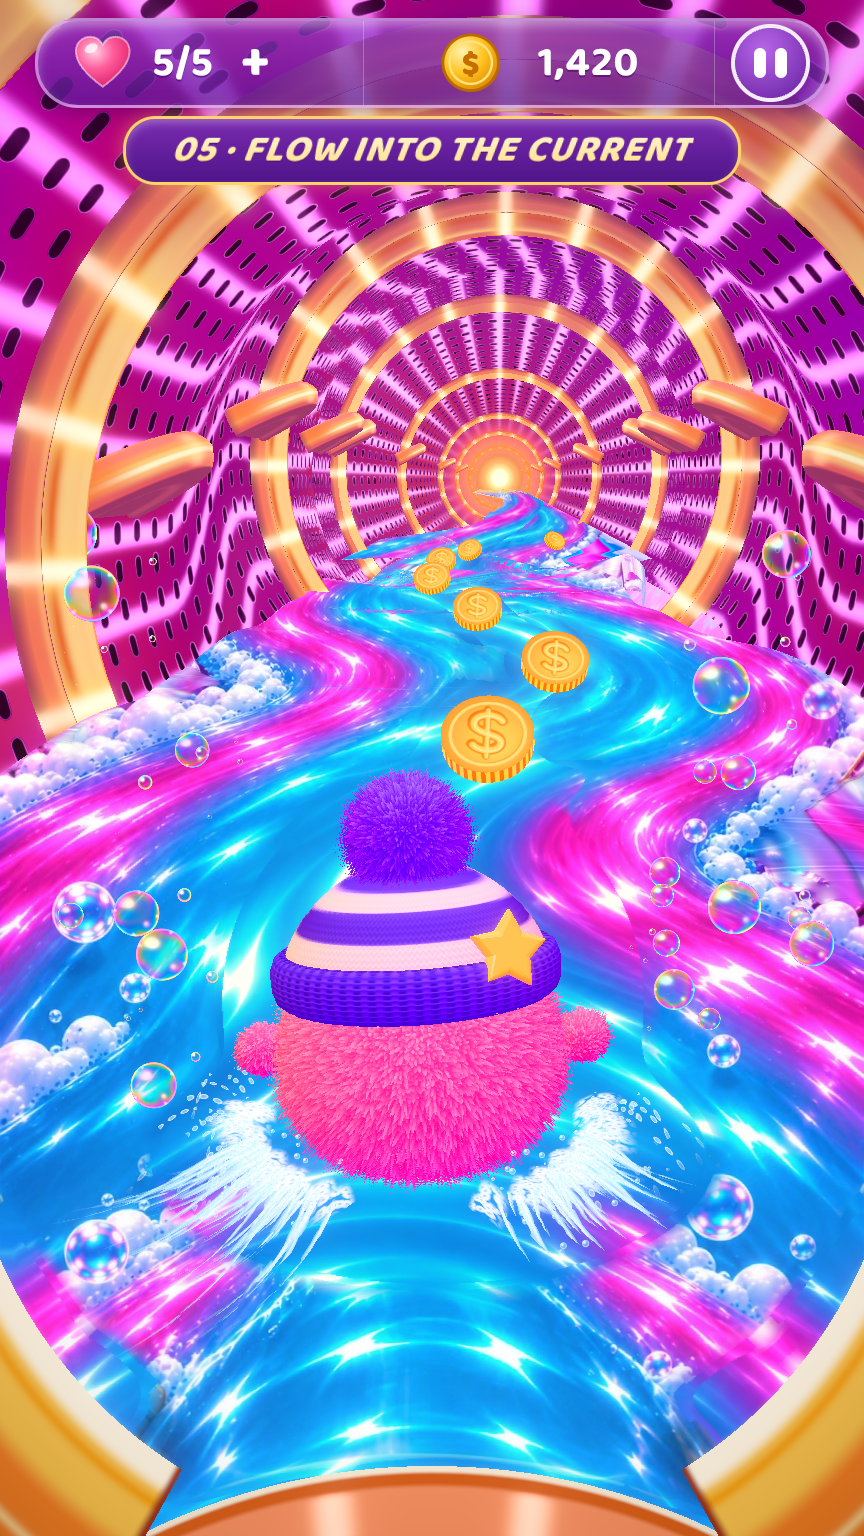
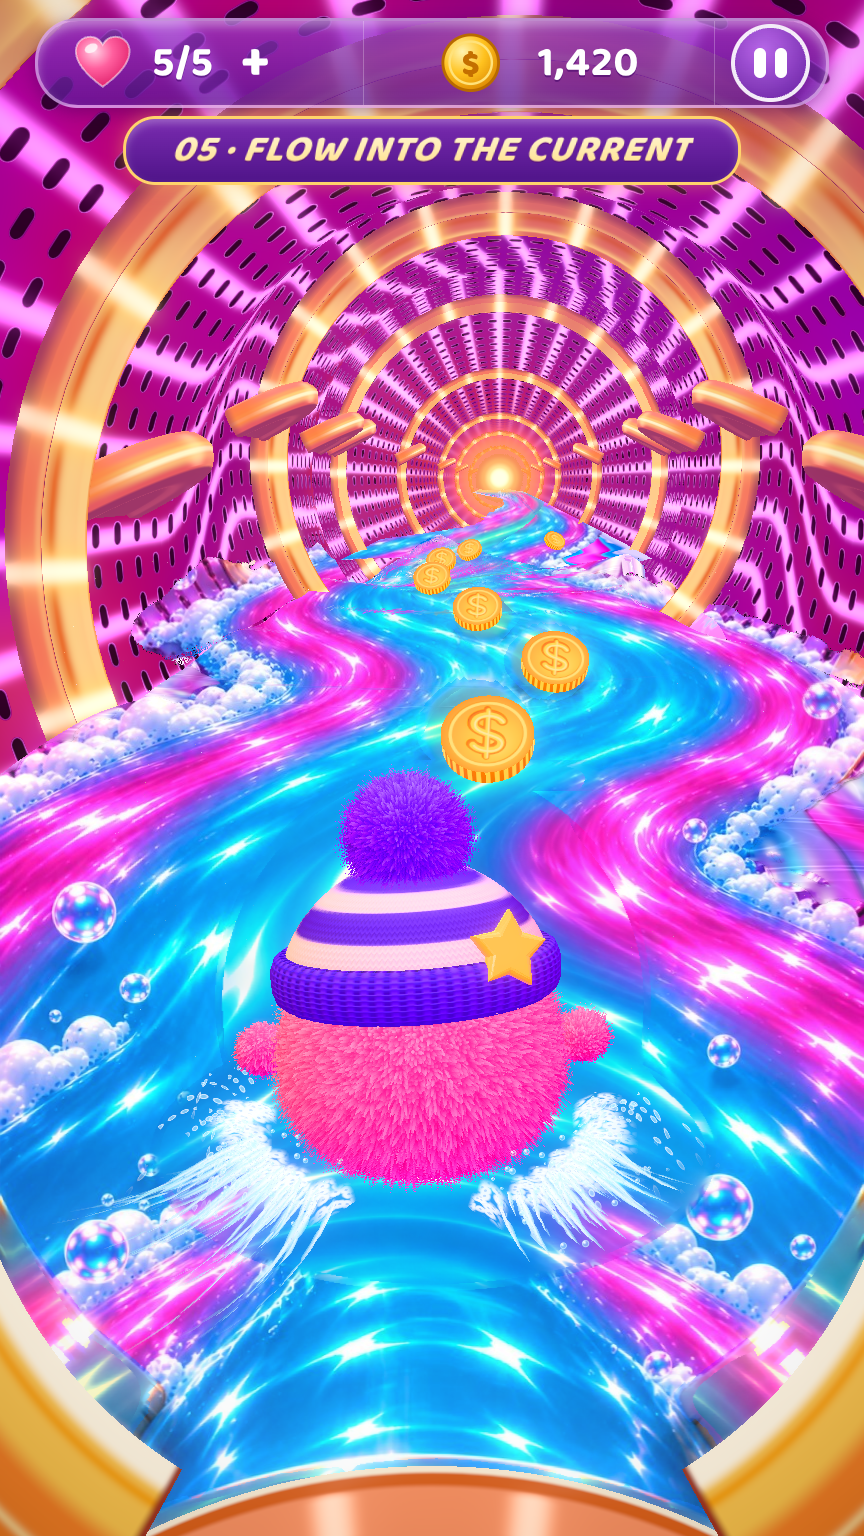
Screen 05 proj05 round 2: multi-band fill, 05-only bubbles off, visual bank strip, steering test
Approved-water pixels within 20 levels 84.1% -> 93.4% (96.8% without the corners
the locked T2 ring covers), SSIM 0.92. Benny steering test + clip. Default build
pixel-identical; gameplay 8/8; continuity OK.

Claude-Session: https://claude.ai/code/session_012NR93QX82e3JqBGArAa4BD

diff --git a/qa/pilot05/proj/NOTES.md b/qa/pilot05/proj/NOTES.md
@@ -34,7 +34,7 @@ Marble was not used (its reconstructed surface is distorted: `qa/pilot05/marble_
   joins). `?projfoam05=1` keeps the 3D foam.
 
 ## Switches (default build: none of this runs)
-`?proj05=1` on · `&projfoam05=1` keep the 3D foam · `&projflow05=0` no flow · `&projflowd05=` flow distance ·
+`?proj05=1` on · `&projfoam05=1` keep the 3D foam · `&projbub05=1` keep the game bubbles · `&projbank05=0` no bank strip · `&projflow05=0` no flow · `&projflowd05=` flow distance ·
 `&projrate05=` flow rate · `&projdetail05=` detail gain (0.9) · `&projdbg05=1` layer map (green exact, blue near,
 red tile). Experiment APK: `VITE_RAINBOW_Q05="proj05=1" npm run android:debug` (not built in this session).
 
@@ -81,6 +81,44 @@ Next levers, one at a time, each as its own switch: hide or reposition the 05 bu
 * Gameplay test with `?proj05=1`: 8 / 8 (`tests/gameplay_proj05.json`); continuity: all stage joins gap 0;
   relative frame cost 0.98× default (`tests/perf05.json`, SwiftShader — device fps not measured).
 * References 13 / 13 unchanged (`sha256sum -c scripts/reference.sha256`).
+
+## Round 2 (2026-11-16 ~18:50–19:15 UTC, user: "at least a 95% visual match … works properly when Benny moves",
+## no new Marble key / world / credits)
+Measure (`tools/proj05/match_metrics.py`, `compare/metrics_approved_water*.json`): every pixel where the APPROVED
+picture shows its water or foam (registered water footprint minus what the approved picture hides: Benny + splash,
+coins, its bottom ring), rows below the HUD — 468,549 px; mean |ΔRGB| per pixel, 0–255.
+
+| | BEFORE (T2) | round 1 | **round 2** |
+|---|---:|---:|---:|
+| within 20 levels | 25.9 % | 84.1 % | **93.4 %** |
+| within 10 levels | 9.5 % | 77.6 % | **88.9 %** |
+| mean abs | 46.1 | 14.2 | **8.7** |
+| SSIM (luminance) | 0.31 | 0.84 | **0.92** |
+| — without the 16,912 px the locked T2 front ring covers: within 20 / 10 levels, mean | 26.8 % / 9.9 % / 44.5 | | **96.8 % / 92.3 % / 5.6** |
+
+What changed (each measured on its own first):
+1. Artwork fill blended with a multi-band (Laplacian) blend INSIDE the hidden areas → approved pixels outside them stay
+   exact (84.1 → 87.9 %).
+2. The game's own bubbles thin out to none while Benny is on 05 (ramped over 3 u at both joins; the approved bubbles
+   are in the texture) → 90.8 %. `?projbub05=1` keeps them. Other screens' bubbles unchanged.
+3. Visual-only bank strip on the lower tunnel wall (`src/vfx/proj05Apron.ts`, texture `proj05_A.png`): the approved
+   fluffy foam banks beyond the river's edge at the far bends; dithers away where magnified or where the approved shows
+   wall; no collisions → 93.3 %. `?projbank05=0` leaves it out.
+4. Colour feedback re-run → 93.4 %.
+
+What still differs (all outside the water texture): the locked T2 front ring covers the approved water in the two
+bottom corners (16.9 k px, 3.6 % — the tunnel was not moved, user rule), game coins at other far positions and
+Benny's splash (≈ 7.4 k px), a +5 red bias where bloom from the pink ribbons spills onto pure cyan (the texture cannot
+go below 0 there). **No "95 % visual match" claim beyond these measured numbers.**
+
+Benny moving (`steer/`, `clips/proj05_benny_steering_3s.mp4`): from the locked checkpoint Benny steers hard left and
+right (lateral ±4.6 u in 0.8 s, real simulation); the water stays continuous around him — no tears, holes or seams where
+the artwork fills the approved Benny area; next to Benny the water is softer (near / tile layers) than at the locked
+view. Zig-zag clip with the flow running: `clips/proj05_benny_steering_3s.mp4`. Moving-camera sheet and ride clip
+refreshed with the round-2 textures.
+
+Checks after round 2: default 05 pixel-identical; 06 / 07 identical with proj05; 04 only its distant 05 view; gameplay
+8 / 8; continuity OK; relative frame cost 1.00× (SwiftShader).
 
 ## Reproduce
 ```

diff --git a/qa/pilot05/proj/BRIEF_NEXT.md b/qa/pilot05/proj/BRIEF_NEXT.md
@@ -16,11 +16,10 @@ approved it yet: nothing becomes default, `ccr-451ea8c7-3nqlis` stays protected.
 Relaunch prompt: "Rainbow Screen 05, branch <session branch>. Read qa/pilot05/proj/NOTES.md and BRIEF_NEXT.md. Improve
 `?proj05=1` one factor at a time, each behind its own URL switch, default build pixel-identical
 (qa/pilot05/current_default_05.png), approved | BEFORE | NEW full-size from the locked camera, numbers from
-tools/proj05/frame_metrics.py, no 95 % claim without the measurement." Candidate factors (in this order):
-1. bubbles: the game's 05 bubbles vs the approved bubbles baked into the texture (hide / reposition on 05 only);
-2. `?projgeo05=1`: visual-only bank widening where the approved water reaches past the game river (≈102 k px; course.ts,
-   widthAt(), steering, coins, collisions untouched);
-3. seams of the artwork fill under Benny (visible when he steers): better registration / feathering in make_target.py.
+tools/proj05/frame_metrics.py, no 95 % claim without the measurement." Done in round 2 (NOTES.md): bubbles off on 05 (`projbub05`), visual-only bank strip (`projbank05`), multi-band fill.
+Remaining candidate factors: (1) the bottom corners covered by the T2 front ring (needs the user's OK — tunnel rule);
+(2) the bloom spill on pure cyan (a 05-only bloom reduction under proj05 would change the tunnel's glow too — ask);
+(3) sharper near water when riding / steering (higher-resolution near layer from the art fill).
 Tools: `tools/proj05/*`, `scripts/proj05-probe.mjs`, `scripts/proj05-move.mjs`. Blender is optional (the bake uses the
 game's own per-pixel river coordinates; if Blender is used for camera projection: its UV Project modifier ignores lens
 shift — use the camera projection matrix, see `tools/blender/marble05_projection.py`).
